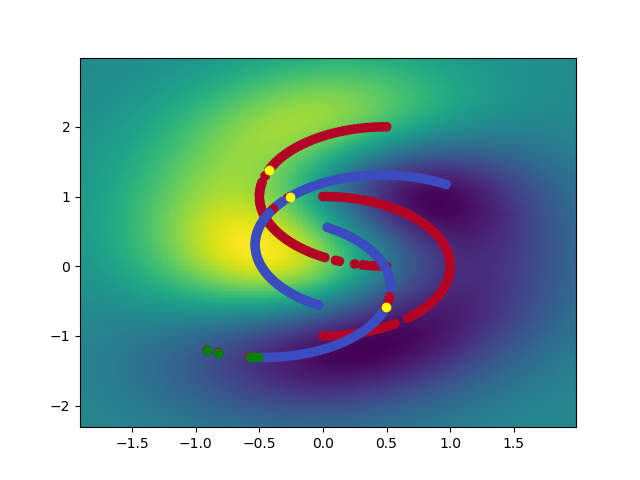
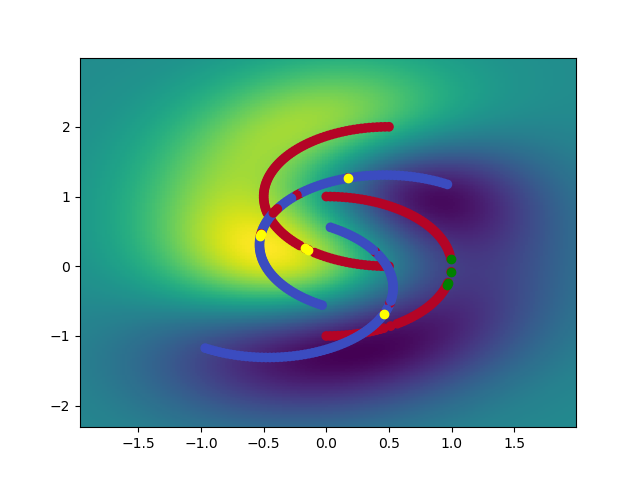
Changed Separator to RBF

diff --git a/dalc_active.py b/dalc_active.py
@@ -88,6 +88,11 @@ def get_target_data(data, labels):
     return result
 
 
+def add_point(data, X, Y):
+    np.append(data.X, X)
+    np.append(data.Y, Y)
+
+
 def filtering_samples(data, labels, classifier, closest_samples, furthest_samples):
     # Closest Samples
     for j in range(0, len(closest_samples)):
@@ -166,12 +171,16 @@ def active_iteration(data, labels, dalc, classifier, kernel, h_sep, cost=50, ite
             if cost == 0:
                 raise Exception('---- OUT OF COST ----')
             cost -= 1
+            for i in range(0, 10):
+                add_point(data, data.X[j], data.Y[j])
         data.Y[j] = 1
     for j in furthest_samples:
         if data.Y[j] == -1:
             if cost == 0:
                 raise Exception('---- OUT OF COST ----')
             cost -= 1
+            for i in range(0, 10):
+                add_point(data, data.X[j], data.Y[j])
         data.Y[j] = 1
 
     # Retrain DALC
@@ -179,7 +188,7 @@ def active_iteration(data, labels, dalc, classifier, kernel, h_sep, cost=50, ite
     # Retrain h_sep
     h_sep.fit(data.X, data.Y)
 
-    plot_model(data, classifier, 'active_dalc', closest_samples, furthest_samples)
+    # plot_model(data, classifier, 'active_dalc', closest_samples, furthest_samples)
 
     return data, labels, classifier, h_sep, cost
 
@@ -205,16 +214,17 @@ def active_dalc(source, target, cost=50, iterations=5):
         labels.append(i)
     labels = np.asarray(labels)
     # Saving Labels in sep_dataset
-    data.X = np.asarray(X)
-    data.Y = np.asarray(Y)
+    data.X = X
+    data.Y = Y
 
     # Linear Separator h_sep
-    h_sep = svm.SVC(kernel='linear', C=1.0)
+    h_sep = svm.SVC(kernel='rbf', C=15.1)                # Manually Tuned Parameters
     h_sep.fit(data.X, data.Y)
+    print('Separator Score = ' + str(h_sep.score(data.X, data.Y)))
 
     # DALC initial model with Moon dataset's optimal parameters
-    dalc = Dalc(0.6309573650360107, 0.1258925348520279)
-    kernel = Kernel('rbf', 1.2559431791305542)
+    dalc = Dalc(0.6309573650360107, 0.1258925348520279)  # Manually Tuned Parameters
+    kernel = Kernel('rbf', 1.2559431791305542)           # Manually Tuned Parameters
     classifier = dalc.learn(get_source_data(data, labels), get_target_data(data, labels), kernel)
 
     # Iteration Loop
